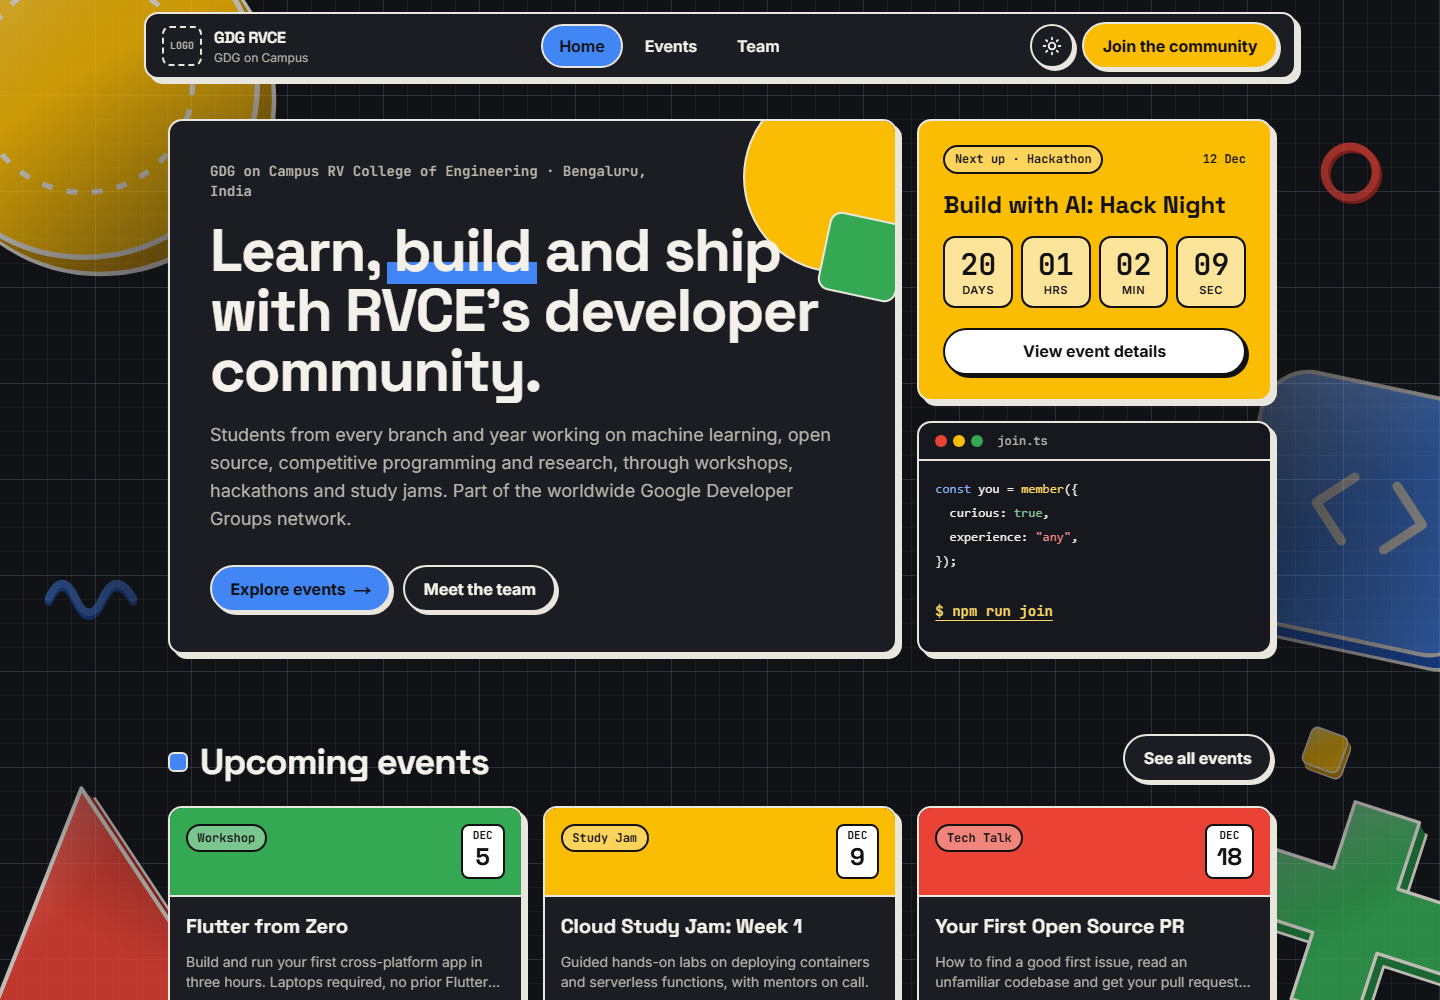
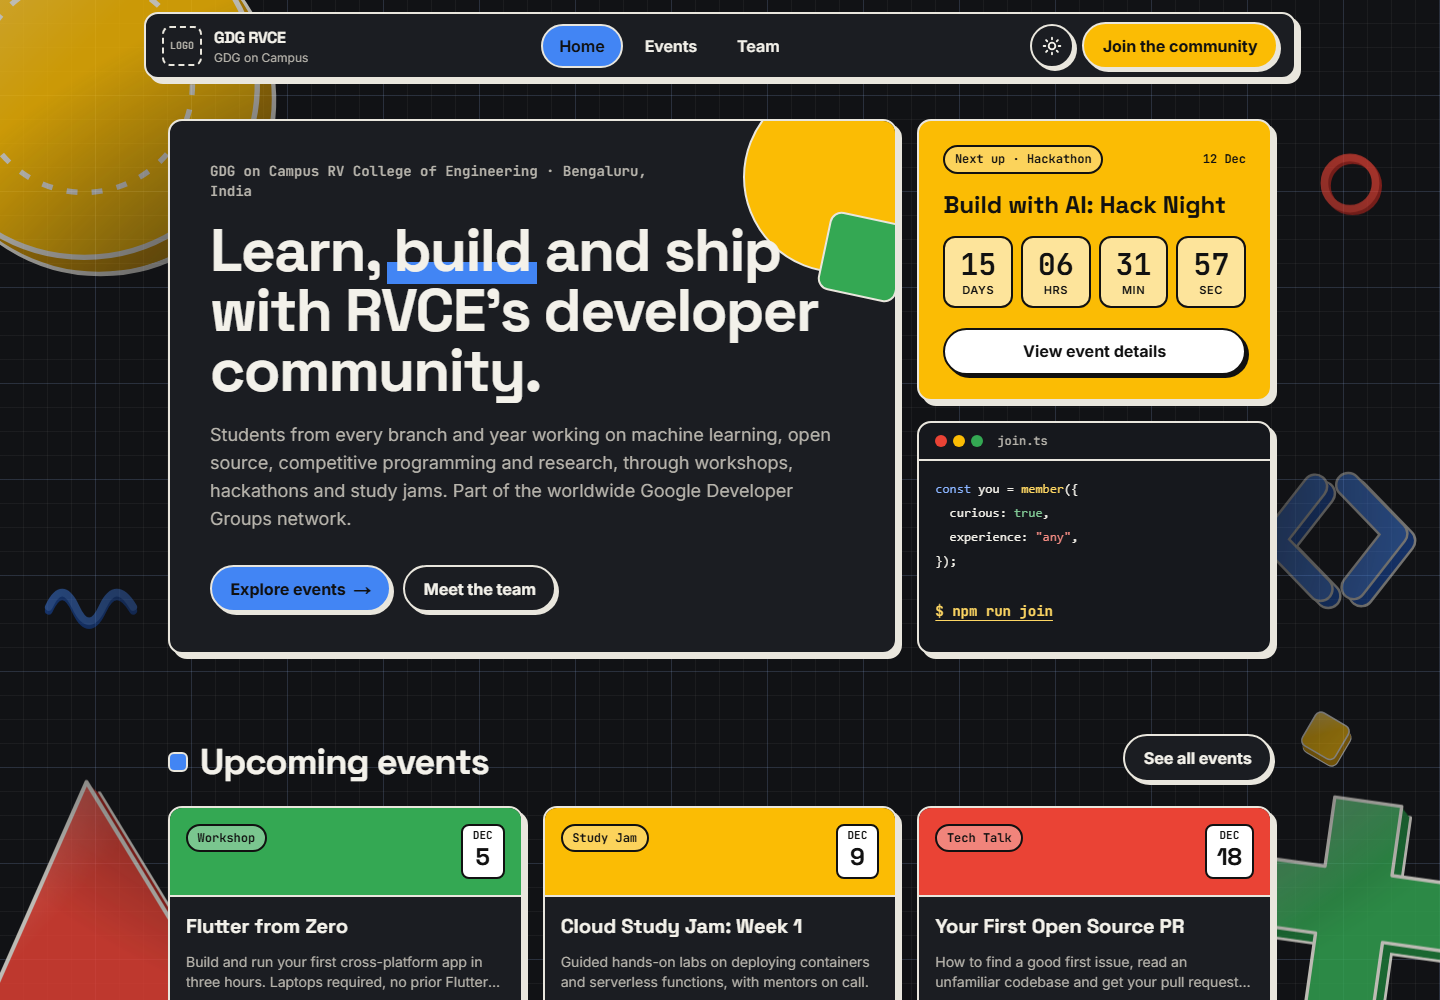
Replace blue tile with blue < > code brackets in the background
Drawn as rounded single-colour strokes with the same extruded side; kept all blue so it reads as a code symbol rather than a redraw of the multi-colour GDG logo.

diff --git a/src/components/BackgroundArt.tsx b/src/components/BackgroundArt.tsx
@@ -41,7 +41,24 @@ function Chip({ d, color, children }: { d: string; color: keyof typeof SHADE; ch
 
 // Shape outlines in a 0..200 box (the viewBox leaves room for the extrusion)
 const CIRCLE = "M100 4 A96 96 0 1 1 99.99 4 Z";
-const SQUARE = "M42 6 H158 A36 36 0 0 1 194 42 V158 A36 36 0 0 1 158 194 H42 A36 36 0 0 1 6 158 V42 A36 36 0 0 1 42 6 Z";
+// A "< >" code bracket pair drawn as two rounded strokes, single colour
+const BRACKETS = "M80 38 L26 100 L80 162 M120 38 L174 100 L120 162";
+
+/** Like Chip, but for stroked line art: ink outline, extruded side, coloured face. */
+function StrokeChip({ d, color, width = 26 }: { d: string; color: keyof typeof SHADE; width?: number }) {
+  const [face, side] = SHADE[color];
+  const line = { fill: "none", strokeLinecap: "round", strokeLinejoin: "round" } as const;
+  return (
+    <>
+      <path d={d} {...line} transform={`translate(${EXTRUDE} ${EXTRUDE})`} stroke={STROKE} strokeWidth={width + 6} />
+      {Array.from({ length: EXTRUDE }, (_, i) => (
+        <path key={i} d={d} {...line} transform={`translate(${EXTRUDE - i} ${EXTRUDE - i})`} stroke={side} strokeWidth={width} />
+      ))}
+      <path d={d} {...line} stroke={STROKE} strokeWidth={width + 6} />
+      <path d={d} {...line} stroke={face} strokeWidth={width} />
+    </>
+  );
+}
 const TRIANGLE = "M100 8 L192 184 L8 184 Z";
 const PLUS = "M70 8 H130 V70 H192 V130 H130 V192 H70 V130 H8 V70 H70 Z";
 const SMALL_SQUARE = "M26 14 H74 A12 12 0 0 1 86 26 V74 A12 12 0 0 1 74 86 H26 A12 12 0 0 1 14 74 V26 A12 12 0 0 1 26 14 Z";
@@ -141,12 +158,10 @@ export function BackgroundArt() {
         </svg>
       </div>
 
-      {/* Right edge: blue tile with a code mark */}
-      <div data-depth="1.6" data-bob="14" className="absolute -right-20 top-[38%] hidden h-56 w-56 will-change-transform md:block md:h-72 md:w-72">
-        <svg data-sway="7" className="h-full w-full rotate-12" viewBox={vb}>
-          <Chip d={SQUARE} color="blue">
-            <path d="M60 100 L84 76 M60 100 L84 124 M140 100 L116 76 M140 100 L116 124" stroke={STROKE} strokeWidth="7" strokeLinecap="round" />
-          </Chip>
+      {/* Right edge: blue < > code brackets */}
+      <div data-depth="1.6" data-bob="14" className="absolute right-1 top-[44%] hidden h-36 w-36 will-change-transform md:block xl:right-3 xl:h-44 xl:w-44 2xl:h-56 2xl:w-56">
+        <svg data-sway="6" className="h-full w-full -rotate-3 overflow-visible" viewBox={vb}>
+          <StrokeChip d={BRACKETS} color="blue" />
         </svg>
       </div>
 
